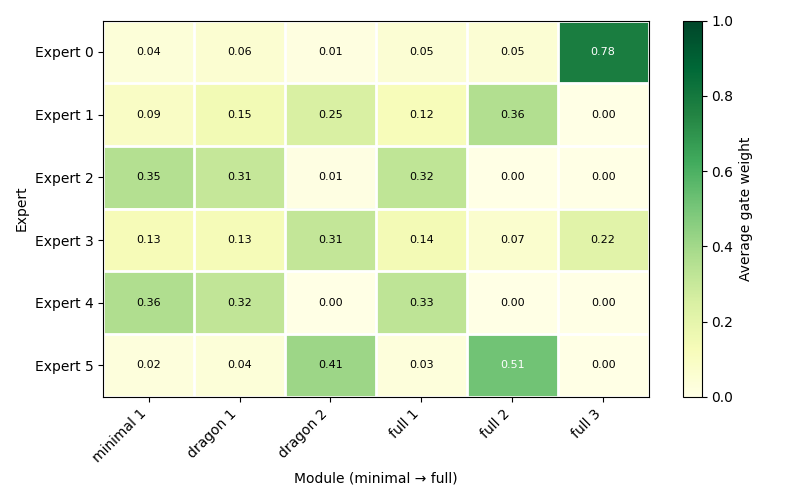
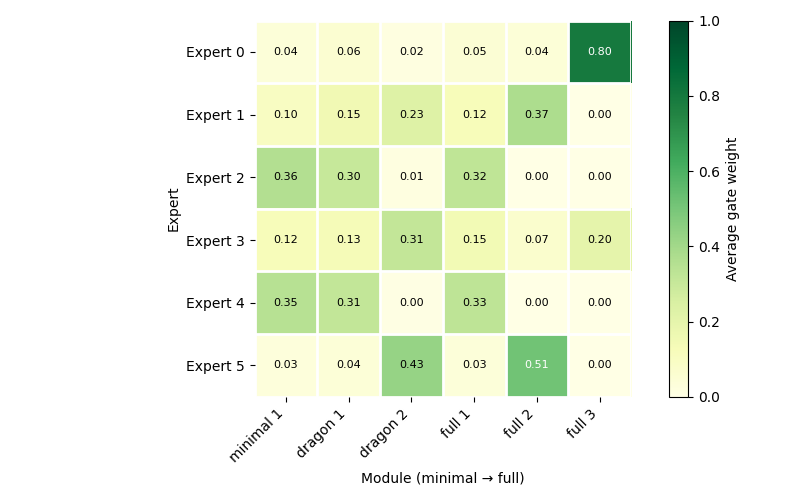
Upload new image.

diff --git a/M2oE/scripts/play_gate_heatmap.py b/M2oE/scripts/play_gate_heatmap.py
@@ -195,11 +195,22 @@ def main():
     )
 
     im = ax.imshow(gate_matrix, vmin=0, vmax=1, cmap="YlGn", aspect="auto")
+
+    for sp in ax.spines.values():
+        sp.set_visible(False)
+    ax.set_facecolor("white")
     
     ax.set_xticks(np.arange(-0.5, gate_matrix.shape[1], 1), minor=True)
     ax.set_yticks(np.arange(-0.5, gate_matrix.shape[0], 1), minor=True)
-    ax.grid(which="minor", color="white", linestyle='-', linewidth=2)
+    ax.grid(which="minor", color="white", linestyle='-', linewidth=2, zorder=10)
     ax.tick_params(which="minor", bottom=False, left=False)
+
+    ax.set_xlim(-0.5, gate_matrix.shape[1] - 0.5)
+    ax.set_ylim(num_experts - 0.5, -0.5)
+
+    ax.set_aspect("equal", adjustable="box")
+    ax.set_box_aspect(gate_matrix.shape[0] / gate_matrix.shape[1])
+    im.set_interpolation("nearest")
 
     cbar = fig.colorbar(im, ax=ax)
     cbar.set_label("Average gate weight")
